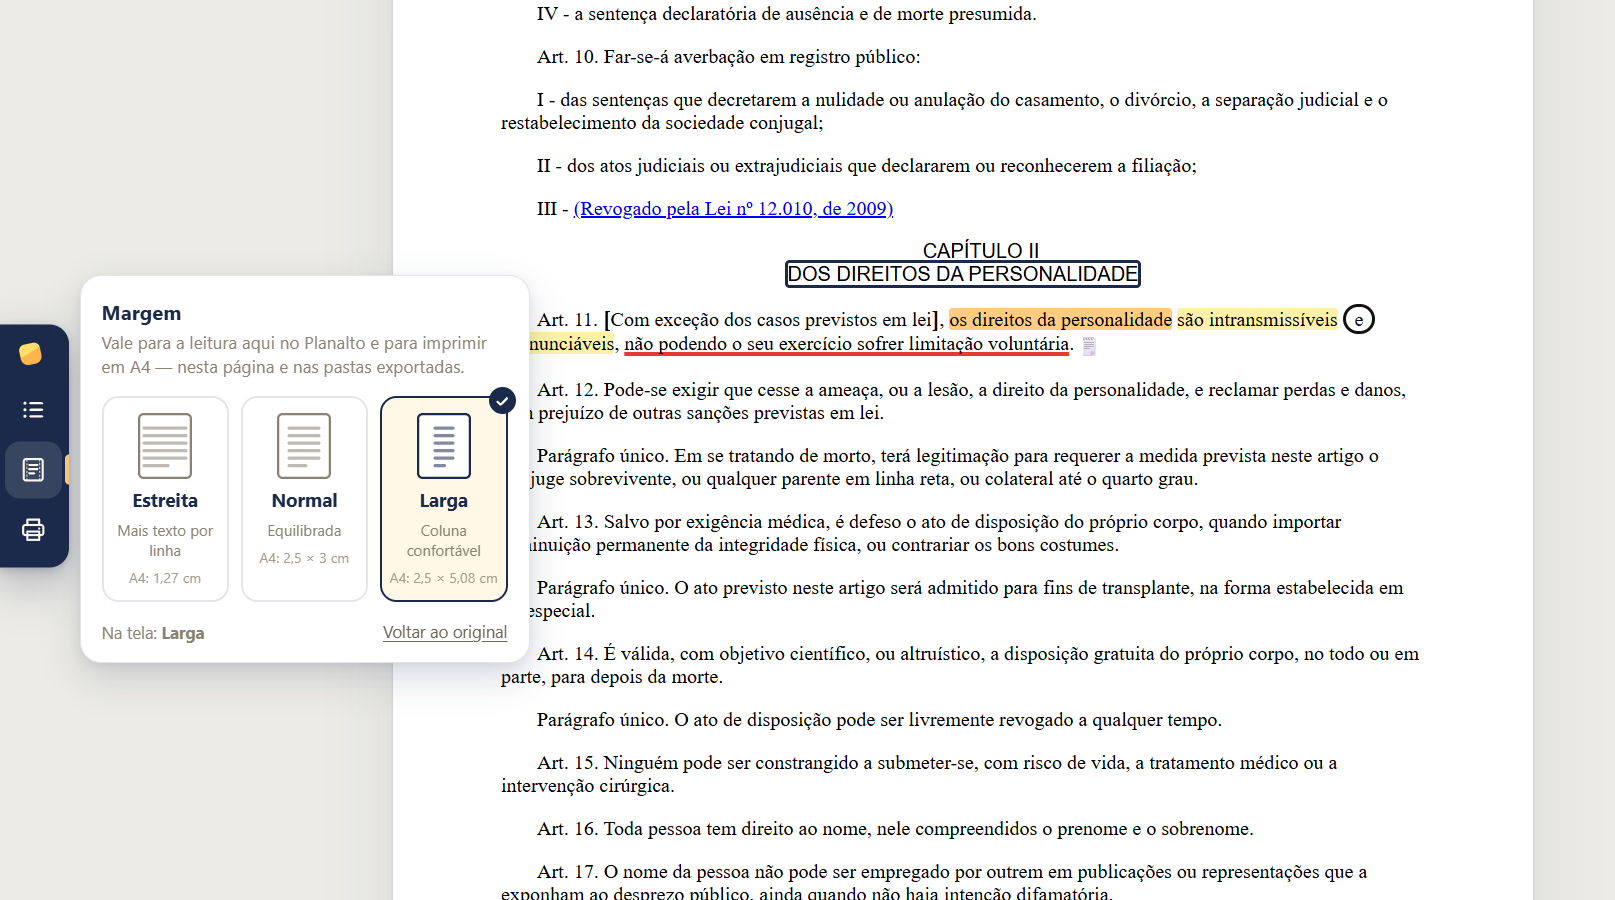
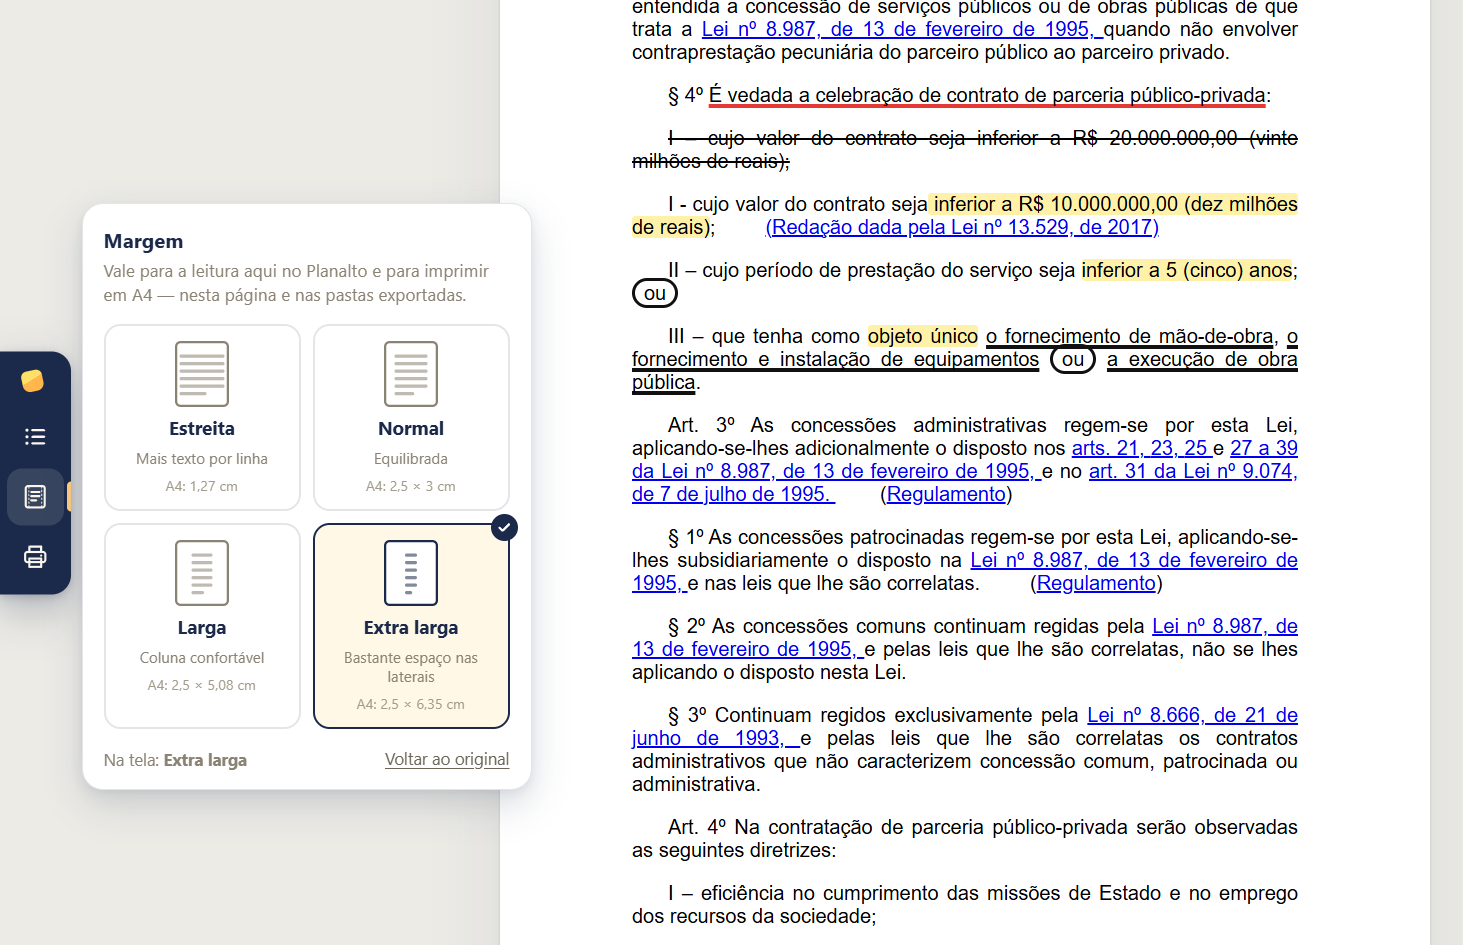
Galeria: nova captura das margens (4 opções, incluindo Extra larga)
Claude-Session: https://claude.ai/code/session_017wcxGjM5v7RgCcvZU2Zqu8

diff --git a/index.html b/index.html
@@ -502,7 +502,7 @@ footer .wrap>a:hover{color:var(--ink)}
           <img class="on" src="img/mtw-grifos.webp" alt="Marca-texto Web grifando artigos do Código Civil em várias cores, com a barra de ferramentas aberta" width="1280" height="800" loading="lazy" decoding="async">
           <img src="img/mtw-sumario.webp" alt="Sumário navegável da lei ao lado do texto no site do Planalto" width="1280" height="800" loading="lazy">
           <img src="img/mtw-busca.webp" alt="Busca de artigo por palavra no sumário da lei" width="1280" height="800" loading="lazy">
-          <img src="img/mtw-margens.webp" alt="Escolha de margem de leitura: estreita, normal ou larga" width="1280" height="800" loading="lazy">
+          <img src="img/mtw-margens.webp" alt="Escolha de margem de leitura: estreita, normal, larga ou extra larga" width="1280" height="800" loading="lazy">
         </div>
         <div class="built-body">
           <span class="pill">Direito e concursos · Extensão para Chrome e Firefox</span>
@@ -833,10 +833,10 @@ footer .wrap>a:hover{color:var(--ink)}
           <img src="img/mtw-grifos.webp" alt="Artigos do Código Civil grifados em amarelo e laranja, com sublinhado, círculo, retângulo e a barra de ferramentas aberta" width="1280" height="800" loading="lazy" decoding="async">
           <img src="img/mtw-sumario.webp" alt="Sumário navegável da lei ao lado do texto, destacando o artigo 1.240" width="1280" height="800" aria-hidden="true" loading="lazy">
           <img src="img/mtw-busca.webp" alt="Busca por “promessa de fato” com dois resultados no sumário" width="1280" height="800" aria-hidden="true" loading="lazy">
-          <img src="img/mtw-margens.webp" alt="Painel de margem com as opções Estreita, Normal e Larga" width="1280" height="800" aria-hidden="true" loading="lazy">
+          <img src="img/mtw-margens.webp" alt="Painel de margem com as opções Estreita, Normal, Larga e Extra larga, numa lei do Planalto" width="1280" height="800" aria-hidden="true" loading="lazy">
           <label for="mtw-gzoom" class="m-gzhit"><span class="m-zhint"><span class="m-zin">Clique para ampliar</span><span class="m-zout">Fechar</span></span></label>
         </div>
-        <p class="m-caption"><span>8 cores, sublinhado, círculo, colchetes, “Revisar” e post-its do STF e STJ. Tudo fica salvo na página.</span><span>Livros, títulos, capítulos e artigos ao lado do texto, e um “você está em” que acompanha a leitura.</span><span>Busque pelo número (1.238, 44-A) ou por palavra (promessa de fato) e vá direto ao dispositivo.</span><span>Margem de leitura ajustável, em 4 opções. A mesma margem vale na hora de imprimir em A4.</span></p>
+        <p class="m-caption"><span>8 cores, sublinhado, círculo, colchetes, “Revisar” e post-its do STF e STJ. Tudo fica salvo na página.</span><span>Livros, títulos, capítulos e artigos ao lado do texto, e um “você está em” que acompanha a leitura.</span><span>Busque pelo número (1.238, 44-A) ou por palavra (promessa de fato) e vá direto ao dispositivo.</span><span>Estreita, Normal, Larga ou Extra larga. A mesma margem vale na hora de imprimir em A4.</span></p>
       </div>
     </div>
   </div>

diff --git a/marca-texto-web.html b/marca-texto-web.html
@@ -296,7 +296,7 @@ footer .wrap{display:flex;justify-content:space-between;gap:16px;flex-wrap:wrap}
           <img src="img/mtw-grifos.webp" alt="Artigos do Código Civil grifados em amarelo e laranja, com sublinhado, círculo, retângulo e a barra de ferramentas aberta" width="1280" height="800">
           <img src="img/mtw-sumario.webp" alt="Sumário navegável da lei ao lado do texto, destacando o artigo 1.240" width="1280" height="800" aria-hidden="true" loading="lazy">
           <img src="img/mtw-busca.webp" alt="Busca por “promessa de fato” com dois resultados no sumário" width="1280" height="800" aria-hidden="true" loading="lazy">
-          <img src="img/mtw-margens.webp" alt="Painel de margem com as opções Estreita, Normal e Larga" width="1280" height="800" aria-hidden="true" loading="lazy">
+          <img src="img/mtw-margens.webp" alt="Painel de margem com as opções Estreita, Normal, Larga e Extra larga, numa lei do Planalto" width="1280" height="800" aria-hidden="true" loading="lazy">
           <label for="gzoom" class="gzhit"><span class="zhint"><span class="zin">Clique para ampliar</span><span class="zout">Fechar</span></span></label>
         </div>
         <p class="caption" id="caption" aria-live="polite">8 cores, sublinhado, círculo, colchetes, “Revisar” e post-its do STF e STJ. Tudo fica salvo na página.</p>
@@ -624,7 +624,7 @@ footer .wrap{display:flex;justify-content:space-between;gap:16px;flex-wrap:wrap}
 
 <script>
 (function(){
-  const caps=['8 cores, sublinhado, círculo, colchetes, “Revisar” e post-its do STF e STJ. Tudo fica salvo na página.','Livros, títulos, capítulos e artigos ao lado do texto, e um “você está em” que acompanha a leitura.','Busque pelo número (1.238, 44-A) ou por palavra (promessa de fato) e vá direto ao dispositivo.','Margem de leitura ajustável, em 4 opções. A mesma margem vale na hora de imprimir em A4.'];
+  const caps=['8 cores, sublinhado, círculo, colchetes, “Revisar” e post-its do STF e STJ. Tudo fica salvo na página.','Livros, títulos, capítulos e artigos ao lado do texto, e um “você está em” que acompanha a leitura.','Busque pelo número (1.238, 44-A) ou por palavra (promessa de fato) e vá direto ao dispositivo.','Estreita, Normal, Larga ou Extra larga. A mesma margem vale na hora de imprimir em A4.'];
   const tabs=[...document.querySelectorAll('#gtabs button')], imgs=[...document.querySelectorAll('#frame img')], cap=document.getElementById('caption');
   let cur=0, auto=!matchMedia('(prefers-reduced-motion: reduce)').matches;
   function show(i){cur=i;tabs.forEach((t,j)=>t.setAttribute('aria-selected',j===i));imgs.forEach((im,j)=>im.setAttribute('aria-hidden',j!==i));document.getElementById('frame').setAttribute('aria-labelledby','g'+i);cap.textContent=caps[i];}

diff --git a/src/capturas/compor.js b/src/capturas/compor.js
@@ -4,7 +4,7 @@ const path = require('path');
 const TELAS = {
   sumario: { titulo: 'Sumário navegável <mark>nas leis do Planalto</mark>', sub: 'Livros, títulos, capítulos e artigos ao lado do texto — e um “você está em” que acompanha a leitura.' },
   busca:   { titulo: 'Ache qualquer artigo <mark>em segundos</mark>', sub: 'Busque pelo número (1.238, 44-A) ou por palavra (promessa de fato) e vá direto ao dispositivo.' },
-  margens: { titulo: 'Leia do seu jeito: <mark>3 margens</mark>', sub: 'Estreita, Normal ou Larga — e a mesma margem vale na hora de imprimir em A4.' },
+  margens: { titulo: 'Leia do seu jeito: <mark>4 margens</mark>', sub: 'Estreita, Normal, Larga ou Extra larga — e a mesma margem vale na hora de imprimir em A4.', url: 'planalto.gov.br/ccivil_03/_ato2004-2006/2004/lei/l11079.htm' },
 };
 const html = (t, img, cw, ch) => `<!doctype html><html lang="pt-BR"><head><meta charset="utf-8">
 <link rel="stylesheet" href="https://fonts.googleapis.com/css2?family=Bricolage+Grotesque:opsz,wght@12..96,200..800&family=Instrument+Sans:wght@400..700&display=swap">
@@ -27,7 +27,7 @@ h1 mark{background:linear-gradient(transparent 52%,#FDE27D 52%,#FDE27D 94%,trans
 <h1>${t.titulo}</h1><div class="sub">${t.sub}</div>
 <div class="logo"><svg viewBox="0 0 24 24" aria-hidden="true"><defs><clipPath id="cp"><rect x="3.4" y="3.4" width="17.2" height="17.2" rx="5.2"/></clipPath></defs><g transform="rotate(-14 12 12)"><g clip-path="url(#cp)"><rect x="3.4" y="3.4" width="17.2" height="17.2" fill="#FFB74D"/><polygon points="3.4,3.4 20.6,3.4 3.4,20.6" fill="#FFE066"/></g></g></svg>Marca-texto Web</div>
 <div class="win"><div class="bar"><span class="dot" style="background:#FA5E57"></span><span class="dot" style="background:#FBB42A"></span><span class="dot" style="background:#25C239"></span>
-<div class="url"><svg viewBox="0 0 10 11" fill="#6B6B6B"><path d="M5 0a2.6 2.6 0 0 0-2.6 2.6V4H1.6C1 4 .5 4.5.5 5.1v4.3c0 .6.5 1.1 1.1 1.1h6.8c.6 0 1.1-.5 1.1-1.1V5.1C9.5 4.5 9 4 8.4 4h-.8V2.6A2.6 2.6 0 0 0 5 0zm-1.4 4V2.6a1.4 1.4 0 0 1 2.8 0V4H3.6z"/></svg>planalto.gov.br/ccivil_03/leis/2002/l10406compilada.htm</div></div>
+<div class="url"><svg viewBox="0 0 10 11" fill="#6B6B6B"><path d="M5 0a2.6 2.6 0 0 0-2.6 2.6V4H1.6C1 4 .5 4.5.5 5.1v4.3c0 .6.5 1.1 1.1 1.1h6.8c.6 0 1.1-.5 1.1-1.1V5.1C9.5 4.5 9 4 8.4 4h-.8V2.6A2.6 2.6 0 0 0 5 0zm-1.4 4V2.6a1.4 1.4 0 0 1 2.8 0V4H3.6z"/></svg>${t.url||'planalto.gov.br/ccivil_03/leis/2002/l10406compilada.htm'}</div></div>
 <img class="shot" src="${img}" alt=""></div>
 </body></html>`;
 

diff --git a/src/optimus-aprendizado.fonte.html b/src/optimus-aprendizado.fonte.html
@@ -481,7 +481,7 @@ footer .wrap>a:hover{color:var(--ink)}
           <img class="on" src="img/mtw-grifos.webp" alt="Marca-texto Web grifando artigos do Código Civil em várias cores, com a barra de ferramentas aberta" width="1280" height="800">
           <img src="img/mtw-sumario.webp" alt="Sumário navegável da lei ao lado do texto no site do Planalto" width="1280" height="800" loading="lazy">
           <img src="img/mtw-busca.webp" alt="Busca de artigo por palavra no sumário da lei" width="1280" height="800" loading="lazy">
-          <img src="img/mtw-margens.webp" alt="Escolha de margem de leitura: estreita, normal ou larga" width="1280" height="800" loading="lazy">
+          <img src="img/mtw-margens.webp" alt="Escolha de margem de leitura: estreita, normal, larga ou extra larga" width="1280" height="800" loading="lazy">
         </div>
         <div class="built-body">
           <span class="pill">Direito e concursos · Extensão para Chrome e Firefox</span>

diff --git a/src/build.py b/src/build.py
@@ -177,7 +177,7 @@ radios=''.join(f'<input type="radio" name="mtwg" id="mtwg{i}" class="m-gr"'+(' c
 body=re.sub(r'<div class="m-tabs"[^>]*>.*?</div>','<div class="m-tabs" aria-label="Telas do Marca-texto Web">'+''.join(f'<label for="mtwg{i}" class="m-gt">{t}</label>' for i,t in enumerate(tabs))+'</div>',body,count=1,flags=re.S)
 body=body.replace('<div class="m-gallery">','<div class="m-gallery">'+radios,1)
 body=re.sub(r' aria-hidden="true"( width="1280" height="800")',r'\1',body)
-CAPS=['8 cores, sublinhado, círculo, colchetes, “Revisar” e post-its do STF e STJ. Tudo fica salvo na página.','Livros, títulos, capítulos e artigos ao lado do texto, e um “você está em” que acompanha a leitura.','Busque pelo número (1.238, 44-A) ou por palavra (promessa de fato) e vá direto ao dispositivo.','Margem de leitura ajustável, em 4 opções. A mesma margem vale na hora de imprimir em A4.']
+CAPS=['8 cores, sublinhado, círculo, colchetes, “Revisar” e post-its do STF e STJ. Tudo fica salvo na página.','Livros, títulos, capítulos e artigos ao lado do texto, e um “você está em” que acompanha a leitura.','Busque pelo número (1.238, 44-A) ou por palavra (promessa de fato) e vá direto ao dispositivo.','Estreita, Normal, Larga ou Extra larga. A mesma margem vale na hora de imprimir em A4.']
 body=re.sub(r'<p class="m-caption"[^>]*>.*?</p>','<p class="m-caption">'+''.join(f'<span>{c}</span>' for c in CAPS)+'</p>',body,count=1,flags=re.S)
 body=re.sub(r'<div class="m-frame"[^>]*>','<div class="m-frame">',body,count=1)
 

diff --git a/CLAUDE.md b/CLAUDE.md
@@ -76,7 +76,7 @@ src/check.py                       conferência rápida (ids, âncoras, labels, 
 - Preços do Marca-texto Web (extensão 5.17.0, 20/out/2026): teste de **7 dias** (um clique, sem cadastro); R$ 9,90 por 30 dias; R$ 89,90 por ano; **oferta do teste**: quem assina o anual durante os 7 dias paga R$ 59,90, e as renovações anuais desse plano também (mesmo e-mail). Cupons de parceiros existem, mas **não divulgar valor de cupom no site** (decisão do dono: é por fora e pode ser temporário); nos Termos só a frase genérica sobre promoções e cupons. Desde a versão 5.9.0 (out/2026) o pagamento é pela **Stone** (links de pagamento, Pix ou cartão), **pré-pago e sem renovação automática**. ExtensionPay e Stripe foram desativados: não citar mais. O plano fica ligado ao e-mail; quem paga por link libera no computador em “já paguei” (até 3 computadores por e-mail). As marcações ficam só no navegador do usuário.
 - **Backup das marcações (out/2026):** a extensão baixa um arquivo com marcações, post-its e pastas (guardado onde o usuário quiser) e restaura somando ao que já existe, sem apagar nem duplicar. O arquivo é gerado no computador e **nunca passa pelos nossos servidores**: o texto do site, da Política de Privacidade, dos Termos e da Ajuda diz isso. As marcações também acompanham a lei quando o site é atualizado e aparecem mesmo que a lei seja aberta por outro endereço; sumário, margem e impressão funcionam também em outros sites de legislação (a busca e o resto do painel seguem descritos só para planalto.gov.br).
 - **PDF (extensão 5.16.0, out/2026):** a extensão abre e grifa PDFs (ícone → “Abrir PDF no Marca-texto” e escolher o arquivo no computador ou arrastá-lo; PDF de site: baixar e abrir por aqui. **Não citar “Abrir ESTE PDF” nem o botão direito**, decisão do dono). A página tem o destaque “Agora também em PDF” no topo e a seção `#pdf` “Grife seus PDFs”; a Política de Privacidade da extensão tem o item “Arquivos PDF” (processados só no navegador; PDF de site é baixado direto da origem; nada vai aos nossos servidores). Sumário, busca e margens valem para planalto.gov.br **e outros sites cujo conteúdo seja ato normativo** (leis, decretos, resoluções, portarias, provimentos).
-- **Texto da página do Marca-texto (out/2026):** segue a transcrição do dono: bloco “Novidades” no topo (teste de 7 dias, PDF, backup, grifos que acompanham a lei), “Como funciona”, PDFs, leis e atos normativos (margem em **4 opções**, sumário com largura ajustável), pastas, privacidade com backup, preço e o parágrafo sobre os dados guardados no teste e na assinatura. A captura `img/mtw-margens.webp` ainda mostra só 3 margens.
+- **Texto da página do Marca-texto (out/2026):** segue a transcrição do dono: bloco “Novidades” no topo (teste de 7 dias, PDF, backup, grifos que acompanham a lei), “Como funciona”, PDFs, leis e atos normativos (margem em **4 opções**, sumário com largura ajustável), pastas, privacidade com backup, preço e o parágrafo sobre os dados guardados no teste e na assinatura. A captura `img/mtw-margens.webp` mostra as 4 margens (Estreita, Normal, Larga, Extra larga; Lei 11.079).
 - **Perda de dados (decisão do dono, out/2026):** **limpar os dados de navegação NÃO apaga as marcações** (não repetir essa frase). O aviso correto é: “desinstalar a extensão apaga as marcações deste navegador — faça o backup antes”.
 - Os botões “Assinar o mensal/anual” da seção de preço apontam para os links de pagamento da Stone (os mesmos de LINK_MENSAL e LINK_ANUAL do servidor da extensão).
 - **Firefox (out/2026):** a extensão está disponível também no Firefox: https://addons.mozilla.org/pt-BR/firefox/addon/marca-texto-web/ . A página do Marca-texto tem um botão do Firefox ao lado de cada botão do Chrome, e o texto fala em "Chrome e Firefox". O clique nos links da loja do Firefox também conta como a conversão "Clique em Testar grátis". Se a extensão for para outro navegador, repita o mesmo padrão.
